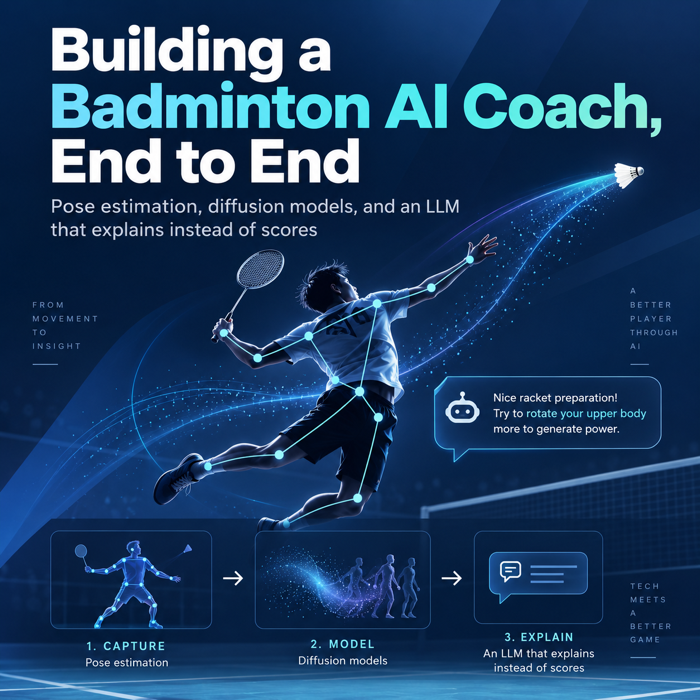
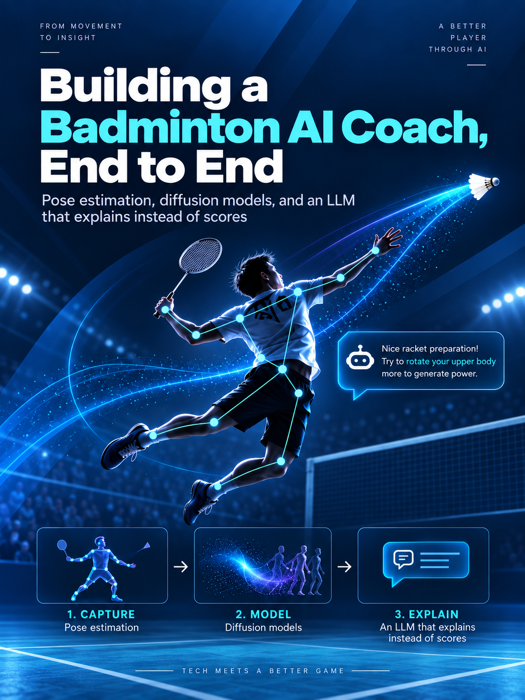
fix: rename the metadata section to cater to zenn's format

diff --git a/books/building_badminton_coaching_system_from_scratch/ch1_system_design.md b/books/building_badminton_coaching_system_from_scratch/ch1_system_design.md
@@ -1,0 +1,4 @@
+---
+title: "System Design - Identify What We Are Building First"
+free: true
+---

diff --git a/books/practical_statistical_learning/multiple_linear_regression.md b/books/practical_statistical_learning/multiple_linear_regression.md
@@ -1,4 +1,4 @@
 ---
-free: false
+title: "Multiple Linear Regression"
+free: true
 ---
-
